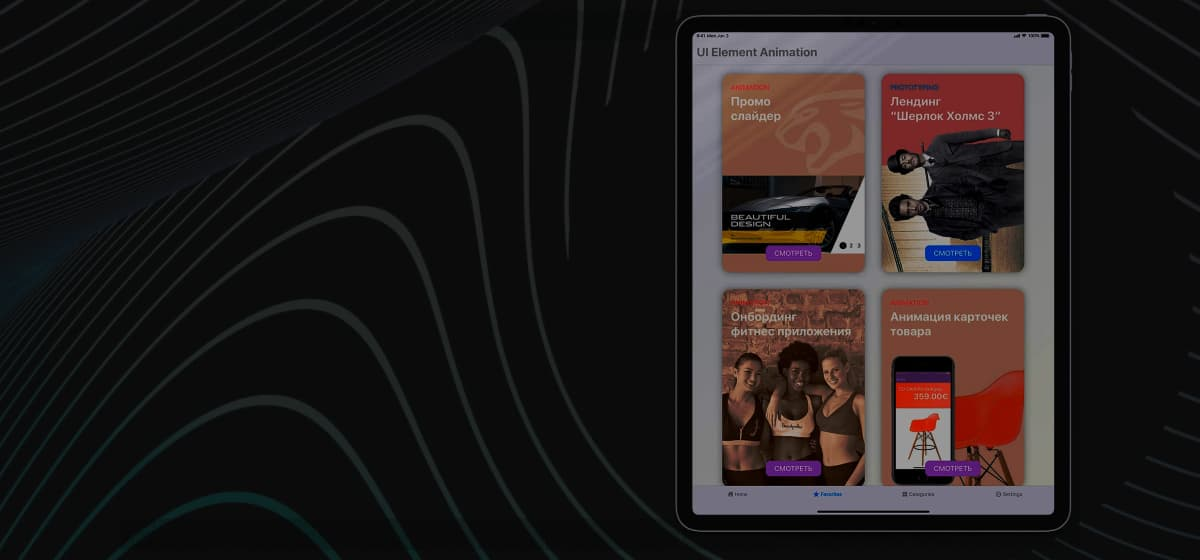
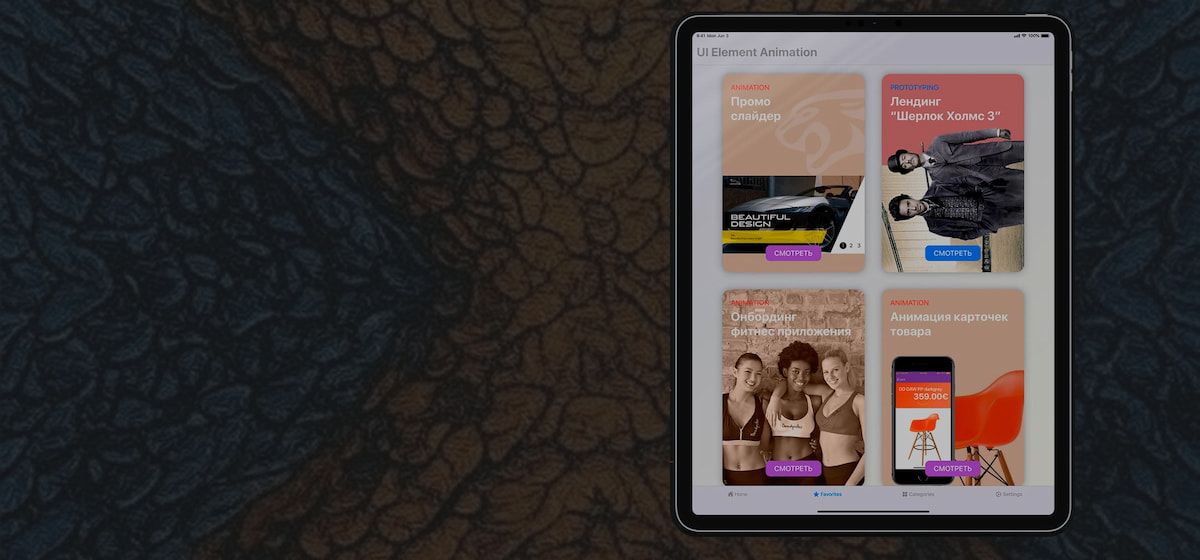
change site bg and anima images

diff --git a/index.html b/index.html
@@ -213,9 +213,9 @@
                     </div>
                     <div class="project-banner">
                         <picture class="banner-img">
-                            <source srcset="/img/anima450.jpg, /img/anima450@2.jpg 2x, /img/anima450@3.jpg 3x" media="(max-width: 450px)">
-                            <source srcset="/img/anima800.jpg, /img/anima800@2.jpg 2x" media="(max-width: 800px)">
-                            <source srcset="/img/anima1200.jpg, /img/anima1200@2.jpg 2x">
+                            <source srcset="/img/anima450.webp, /img/anima450@2.webp 2x, /img/anima450@3.webp 3x" media="(max-width: 450px)">
+                            <source srcset="/img/anima800.webp, /img/anima800@2.webp 2x" media="(max-width: 800px)">
+                            <source srcset="/img/anima1200.webp, /img/anima1200@2.webp 2x">
                             <img src="/img/anima1200.jpg" alt="Ipad с примерами анимаций">
                         </picture>
                         <div class="info-panel">
@@ -241,7 +241,7 @@
                         <div class="info-panel">
                             <div class="title-group">
                                 <h2 class="info-panel-title darktext">WebUI Kit</h2>
-                                <div class="info-panel-subtitle">в разработке</div>
+                                <div class="info-panel-subtitle no-sub">в разработке</div>
                             </div>
                             <div class="btn-group">
                                 <a href="/fwebui" target="_blank" class="btn-link">Смотреть файл</a>

diff --git a/css/temp.css b/css/temp.css
@@ -13,7 +13,7 @@
    Start of custom Webflow CSS
    ========================================================================== */
 :root {
-  --main-bg-color: #F3F7F8;
+  --main-bg-color: #e1f9ff;
   --container-bg-color: #fff;
   --accent-color: #ffdc01;
   --accent-hover-color: #FACC15;
